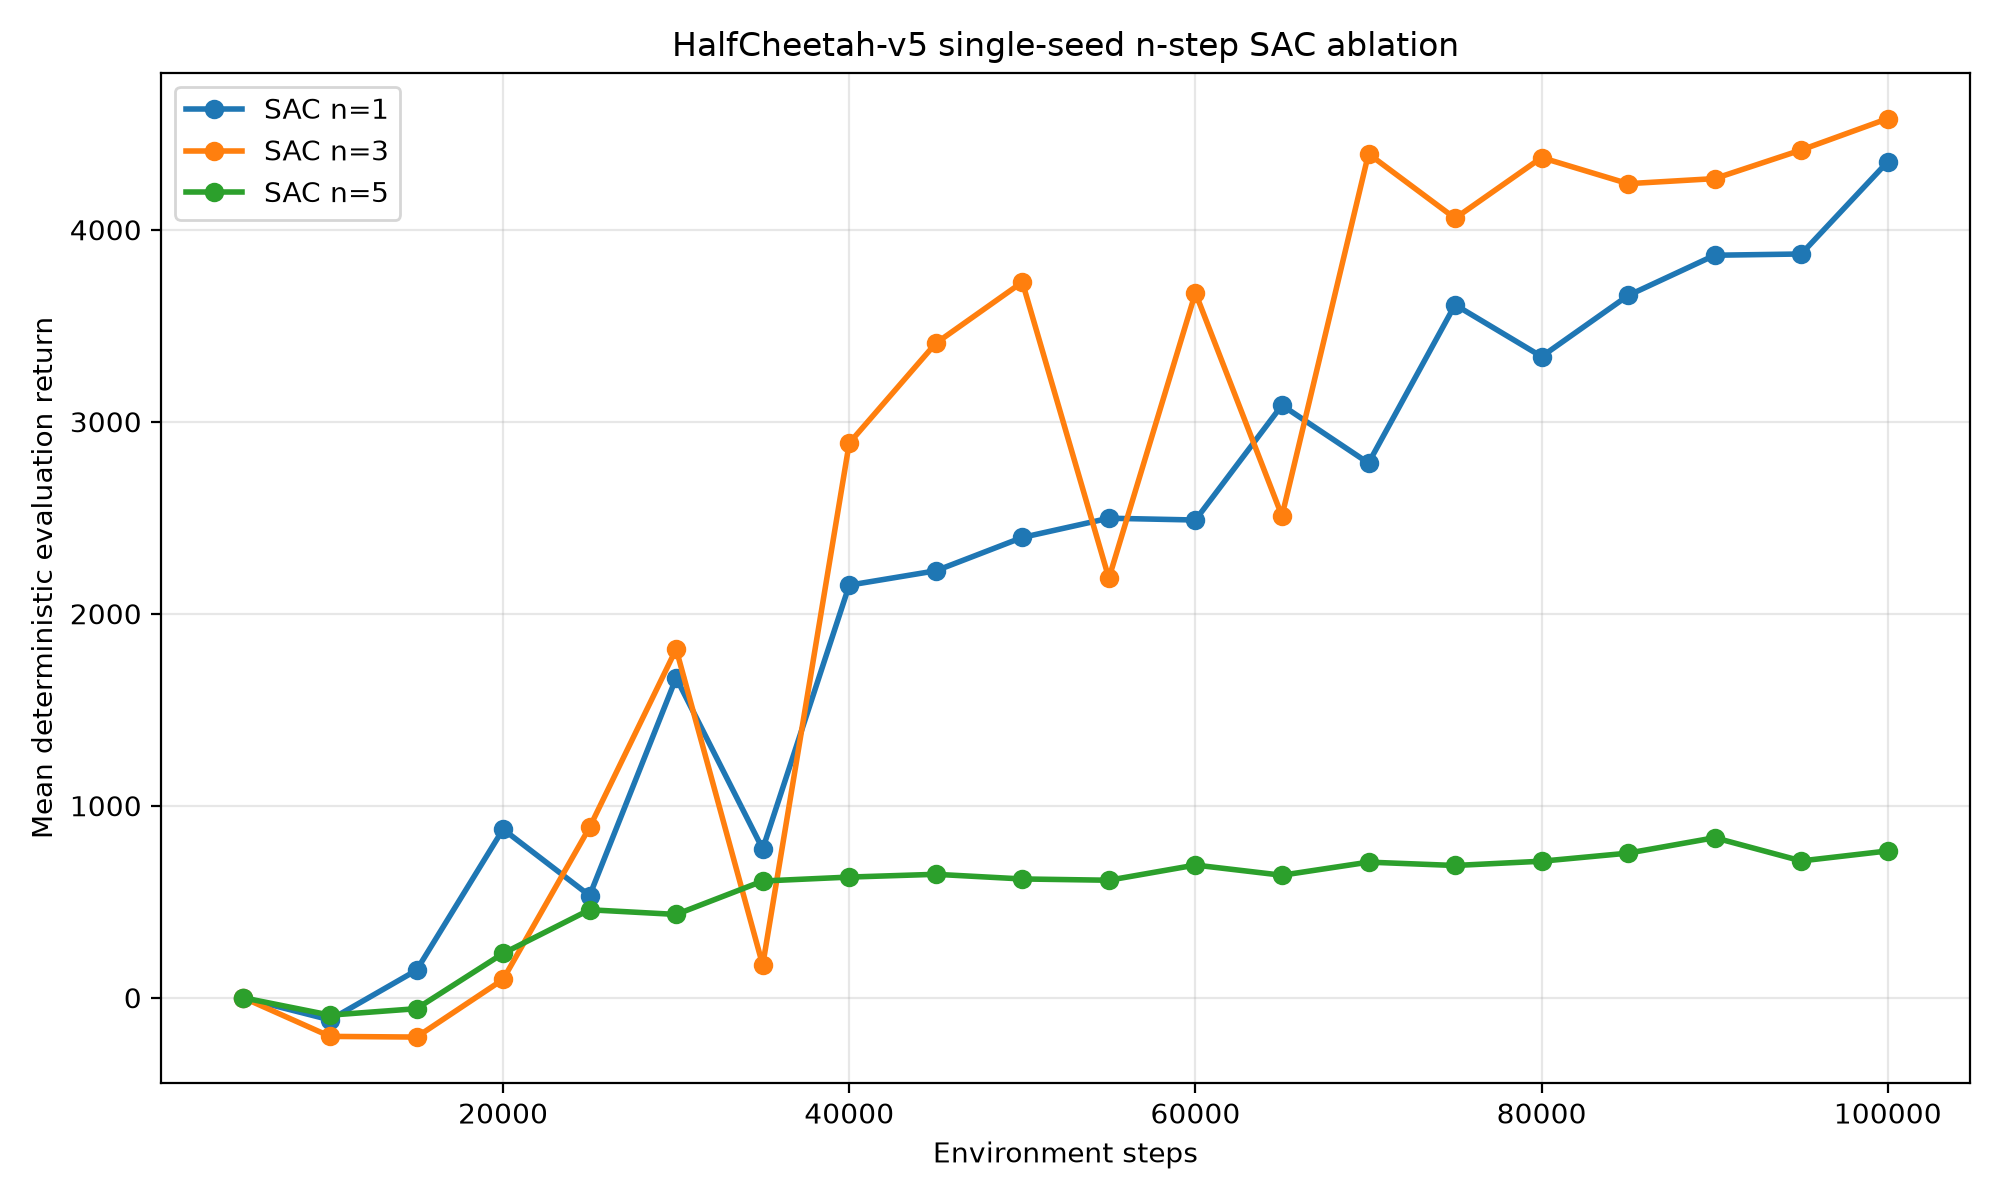
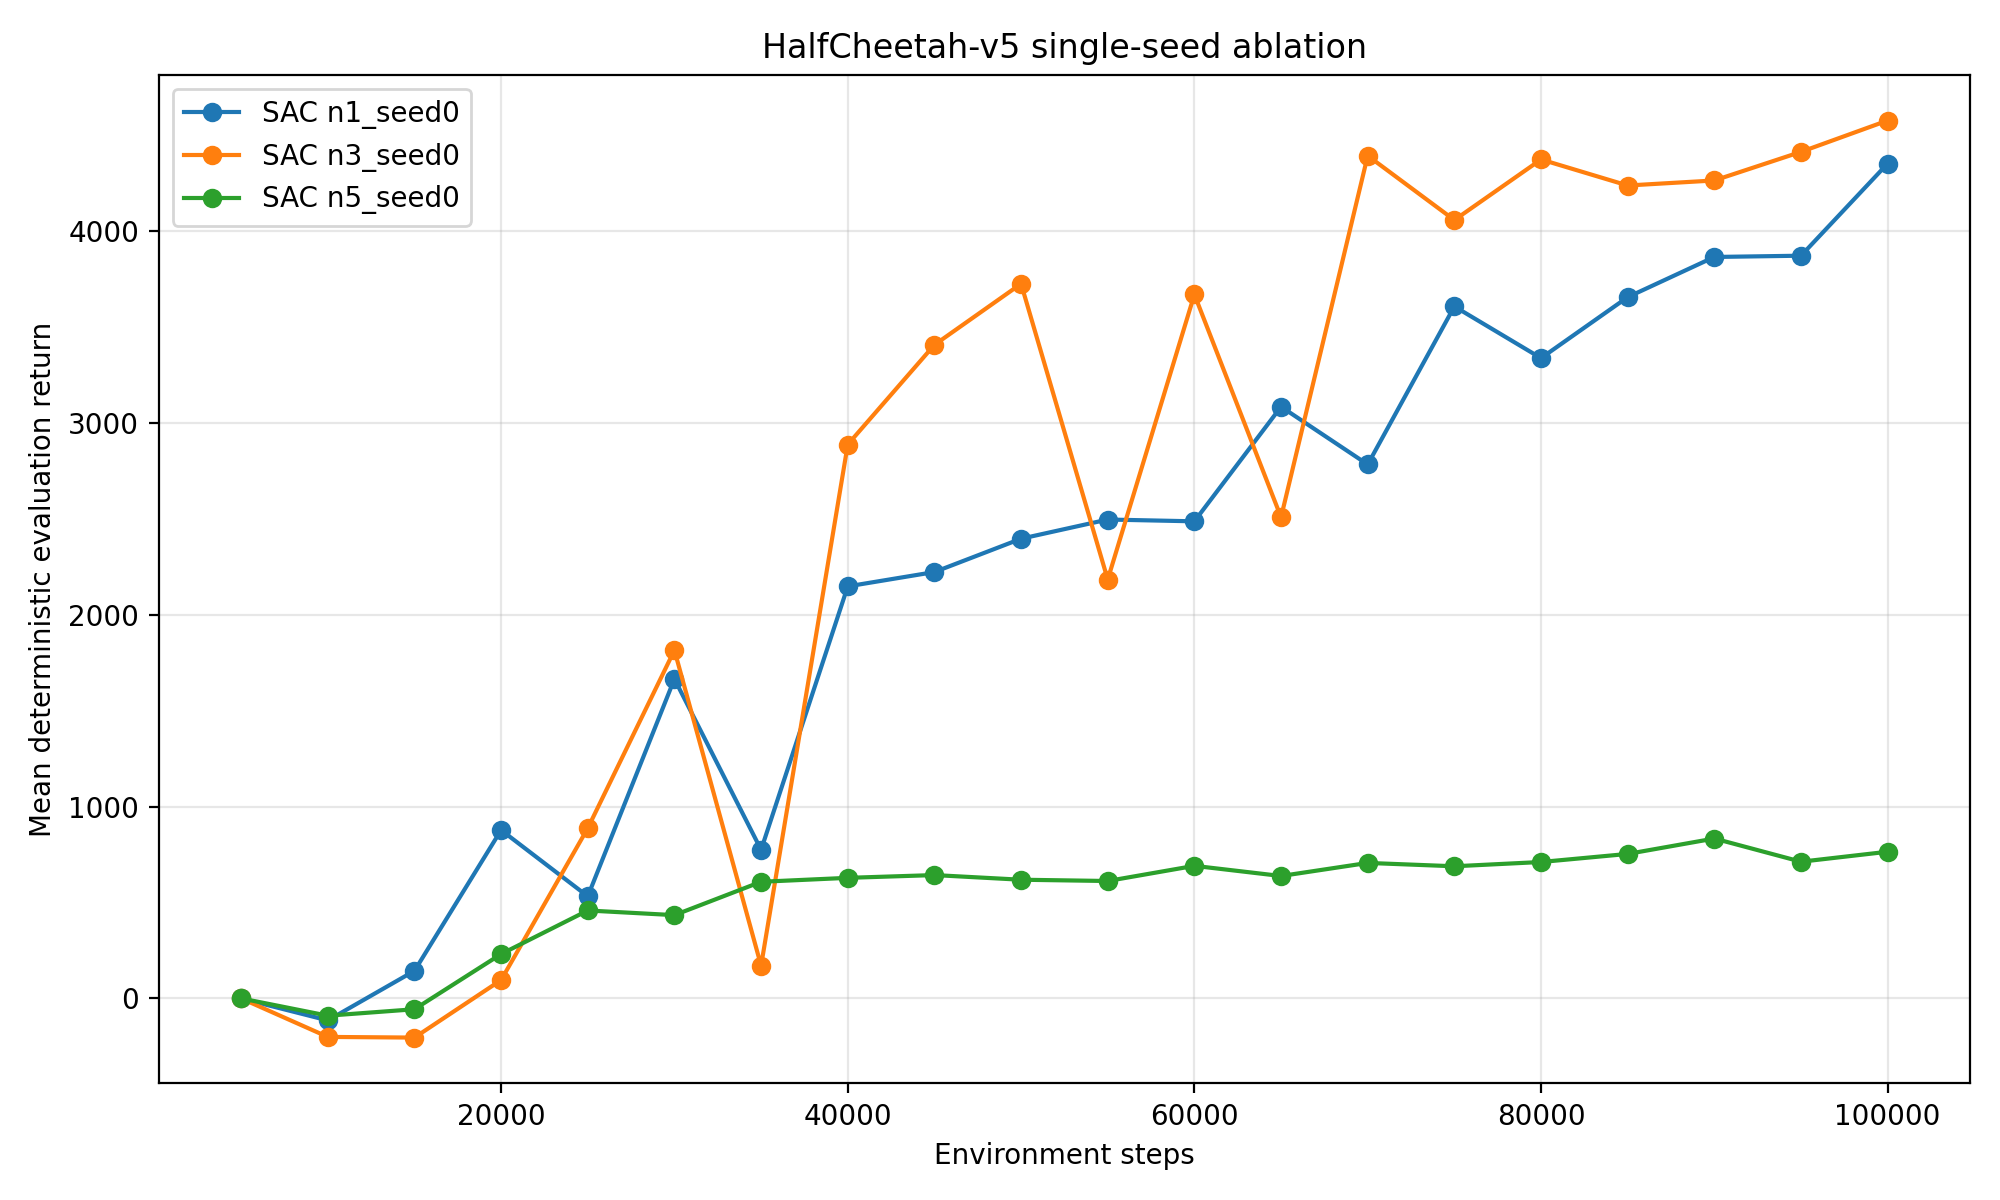
docs: rebuild final reports and fix check script

diff --git a/paper/final_report_en.tex b/paper/final_report_en.tex
@@ -1,10 +1,12 @@
 % Options for packages loaded elsewhere
 \PassOptionsToPackage{unicode}{hyperref}
 \PassOptionsToPackage{hyphens}{url}
-%
 \documentclass[
+  american,
 ]{article}
+\usepackage{xcolor}
 \usepackage{amsmath,amssymb}
+\setcounter{secnumdepth}{5}
 \usepackage{iftex}
 \ifPDFTeX
   \usepackage[T1]{fontenc}
@@ -38,7 +40,6 @@
 }{% if KOMA class
   \KOMAoptions{parskip=half}}
 \makeatother
-\usepackage{xcolor}
 \usepackage{color}
 \usepackage{fancyvrb}
 \newcommand{\VerbBar}{|}
@@ -89,21 +90,19 @@
 \makesavenoteenv{longtable}
 \usepackage{graphicx}
 \makeatletter
-\def\maxwidth{\ifdim\Gin@nat@width>\linewidth\linewidth\else\Gin@nat@width\fi}
-\def\maxheight{\ifdim\Gin@nat@height>\textheight\textheight\else\Gin@nat@height\fi}
-\makeatother
-% Scale images if necessary, so that they will not overflow the page
-% margins by default, and it is still possible to overwrite the defaults
-% using explicit options in \includegraphics[width, height, ...]{}
-\setkeys{Gin}{width=\maxwidth,height=\maxheight,keepaspectratio}
+\newsavebox\pandoc@box
+\newcommand*\pandocbounded[1]{% scales image to fit in text height/width
+  \sbox\pandoc@box{#1}%
+  \Gscale@div\@tempa{\textheight}{\dimexpr\ht\pandoc@box+\dp\pandoc@box\relax}%
+  \Gscale@div\@tempb{\linewidth}{\wd\pandoc@box}%
+  \ifdim\@tempb\p@<\@tempa\p@\let\@tempa\@tempb\fi% select the smaller of both
+  \ifdim\@tempa\p@<\p@\scalebox{\@tempa}{\usebox\pandoc@box}%
+  \else\usebox{\pandoc@box}%
+  \fi%
+}
 % Set default figure placement to htbp
-\makeatletter
 \def\fps@figure{htbp}
 \makeatother
-\setlength{\emergencystretch}{3em} % prevent overfull lines
-\providecommand{\tightlist}{%
-  \setlength{\itemsep}{0pt}\setlength{\parskip}{0pt}}
-\setcounter{secnumdepth}{5}
 % definitions for citeproc citations
 \NewDocumentCommand\citeproctext{}{}
 \NewDocumentCommand\citeproc{mm}{%
@@ -138,18 +137,20 @@
 \newcommand{\CSLRightInline}[1]{\parbox[t]{\linewidth - \csllabelwidth}{\strut#1\strut}}
 \newcommand{\CSLIndent}[1]{\hspace{\cslhangindent}#1}
 \ifLuaTeX
-\usepackage[bidi=basic]{babel}
+\usepackage[bidi=basic,shorthands=off,]{babel}
 \else
-\usepackage[bidi=default]{babel}
+\usepackage[bidi=default,shorthands=off,]{babel}
 \fi
-\babelprovide[main,import]{american}
 \ifPDFTeX
 \else
 \babelfont{rm}[]{DejaVu Sans}
 \fi
-% get rid of language-specific shorthands (see #6817):
-\let\LanguageShortHands\languageshorthands
-\def\languageshorthands#1{}
+\ifLuaTeX
+  \usepackage{selnolig} % disable illegal ligatures
+\fi
+\setlength{\emergencystretch}{3em} % prevent overfull lines
+\providecommand{\tightlist}{%
+  \setlength{\itemsep}{0pt}\setlength{\parskip}{0pt}}
 \usepackage{fontspec}
 \usepackage{xcolor}
 \usepackage{tcolorbox}
@@ -208,9 +209,6 @@
 
 \setlength{\cftsecnumwidth}{3em}
 \setlength{\cftsubsecnumwidth}{3.5em}
-\ifLuaTeX
-  \usepackage{selnolig}  % disable illegal ligatures
-\fi
 \usepackage{bookmark}
 \IfFileExists{xurl.sty}{\usepackage{xurl}}{} % add URL line breaks if available
 \urlstyle{same}
@@ -544,7 +542,7 @@ immediately break SAC on a simple environment.
 
 \begin{figure}
 \centering
-\includegraphics[width=0.9\textwidth,height=\textheight]{results/plots/pendulum_learning_curves.png}
+\includegraphics[width=0.9\linewidth,height=\textheight,keepaspectratio,alt={Pendulum-v1 learning curves}]{results/plots/pendulum_learning_curves.png}
 \caption{Pendulum-v1 learning curves}\label{fig:pendulum}
 \end{figure}
 
@@ -560,7 +558,7 @@ The main result is observed on HalfCheetah-v5.
 
 \begin{figure}
 \centering
-\includegraphics[width=0.9\textwidth,height=\textheight]{results/plots/halfcheetah_learning_curves.png}
+\includegraphics[width=0.9\linewidth,height=\textheight,keepaspectratio,alt={HalfCheetah-v5 learning curves}]{results/plots/halfcheetah_learning_curves.png}
 \caption{HalfCheetah-v5 learning curves}\label{fig:halfcheetah}
 \end{figure}
 
@@ -743,7 +741,7 @@ same hyperparameters.
 \section*{References}\label{references}
 \addcontentsline{toc}{section}{References}
 
-\phantomsection\label{refs}
+\protect\phantomsection\label{refs}
 \begin{CSLReferences}{1}{0}
 \bibitem[\citeproctext]{ref-espeholt2018impala}
 Espeholt, Lasse, Hubert Soyer, Rémi Munos, Karen Simonyan, Volodymyr